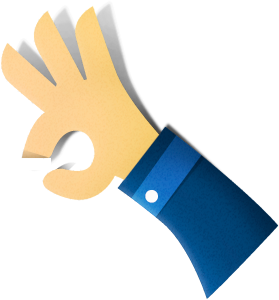
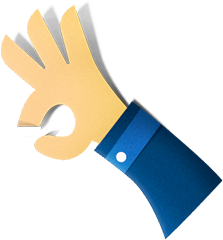
lateral scrolling and text in images

diff --git a/assets/css/styles.css b/assets/css/styles.css
@@ -218,7 +218,7 @@ a, a:hover{
 }
 .logIn{
   top: -3px;
-  left: 361px;
+  left: 346px;
   width: 222px;
   background-image: url(../img/topNavBtnLogin_bg.png);
 }
@@ -248,7 +248,7 @@ a, a:hover{
 .titleText{
   width: 100%;
   height: auto;
-  margin-top: 125px;
+  margin-top: 90px;
   text-align: center;
   font-size: 32px;
   line-height: 28px;
@@ -291,8 +291,8 @@ a, a:hover{
 }
 .handVideo{
   position: absolute;
-  top: -158px;
-  right: -230px;
+  top: -126px;
+  right: -181px;
   z-index: 1;
 }
 .transportador{
@@ -492,11 +492,13 @@ a, a:hover{
 }
 .theory-wrapper .chalk{
 	top: 333px;
-  left: 816px;
+  left: 50%;
+	margin-left: 300px;
 }
 .theory-wrapper .transportador{
 	top: 232px;
-  left: 816px;
+  left: 50%;
+	margin-left: 300px;
 }
 .theory-wrapper .legoVideoLeft{
   bottom: -59px;
@@ -505,7 +507,8 @@ a, a:hover{
 .clip{
 	position: absolute;
 	top: 222px;
-  left: 786px;
+  left: 50%;
+	margin-left: 270px;
 }
 .theory-wrapper .legoVideoRight{
 	bottom: -30px;
